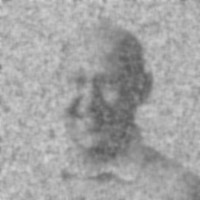
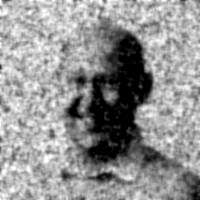
Moving things around and fixing some minor bugs.

diff --git a/src/test/kotlin/LSTest.kt b/src/test/kotlin/LSTest.kt
@@ -21,7 +21,7 @@ class LSTest {
             listOf("Hilbert")
 
         if (listOfSystemsToRender.isEmpty()) {
-            listOfSystemsToRender = LSystem.getSystems().map { it.name }
+            listOfSystemsToRender = LSystem.systems.map { it.name }
         }
         val imageNames = listOf("noice.jpg")
 
@@ -109,7 +109,7 @@ class LSTest {
             color and 255,
             c
         )
-        return (c[2] * 256).toInt().toByte()
+        return ((1f - c[2]) * 255-128).toInt().toByte()
     }
 
     private fun adjustToOutputRectangle(

diff --git a/src/main/kotlin/se/kjellstrand/lsystem/model/LSystem.kt b/src/main/kotlin/se/kjellstrand/lsystem/model/LSystem.kt
@@ -18,12 +18,10 @@ class LSystem(
     companion object {
 
         fun getByName(name: String): LSystem? {
-            return this.getSystems().find { lsd -> lsd.name.startsWith(name, true) }
+            return this.systems.find { lsd -> lsd.name.startsWith(name, true) }
         }
 
-        fun getSystems() = Companion.systems
-
-        private val systems: List<LSystem> = listOf(
+        val systems: List<LSystem> = listOf(
             LSystem(
                 name = "KochSnowFlake",
                 angle = 90.0,

diff --git a/src/main/kotlin/se/kjellstrand/lsystem/LSystemRenderer.kt b/src/main/kotlin/se/kjellstrand/lsystem/LSystemRenderer.kt
@@ -25,7 +25,7 @@ object LSystemRenderer {
         for (element in line) {
             // Use the inverted brightness as width of the line we drawSpline.
             element.w = minWidth +
-                    luminanceData[element.x.div(xScale).toInt()][element.y.div(yScale).toInt()] / 256.0 *
+                    ((luminanceData[element.x.div(xScale).toInt()][element.y.div(yScale).toInt()]+127) / 255.0) *
                     (maxWidth - minWidth)
         }
     }
